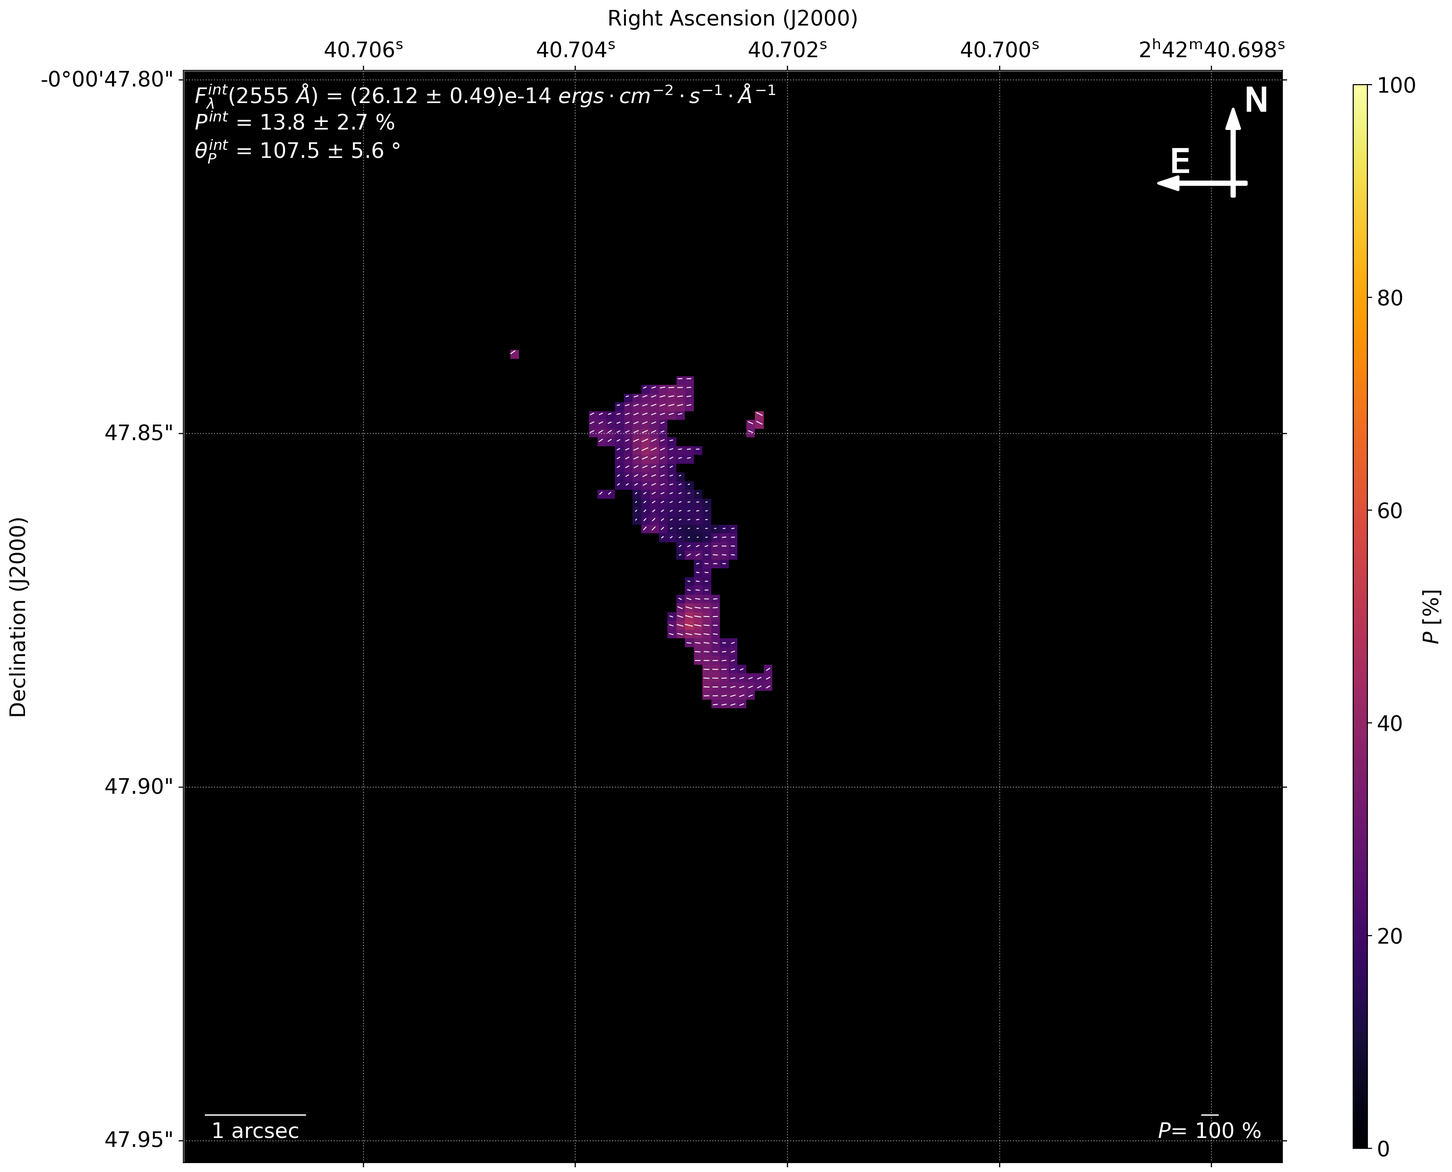
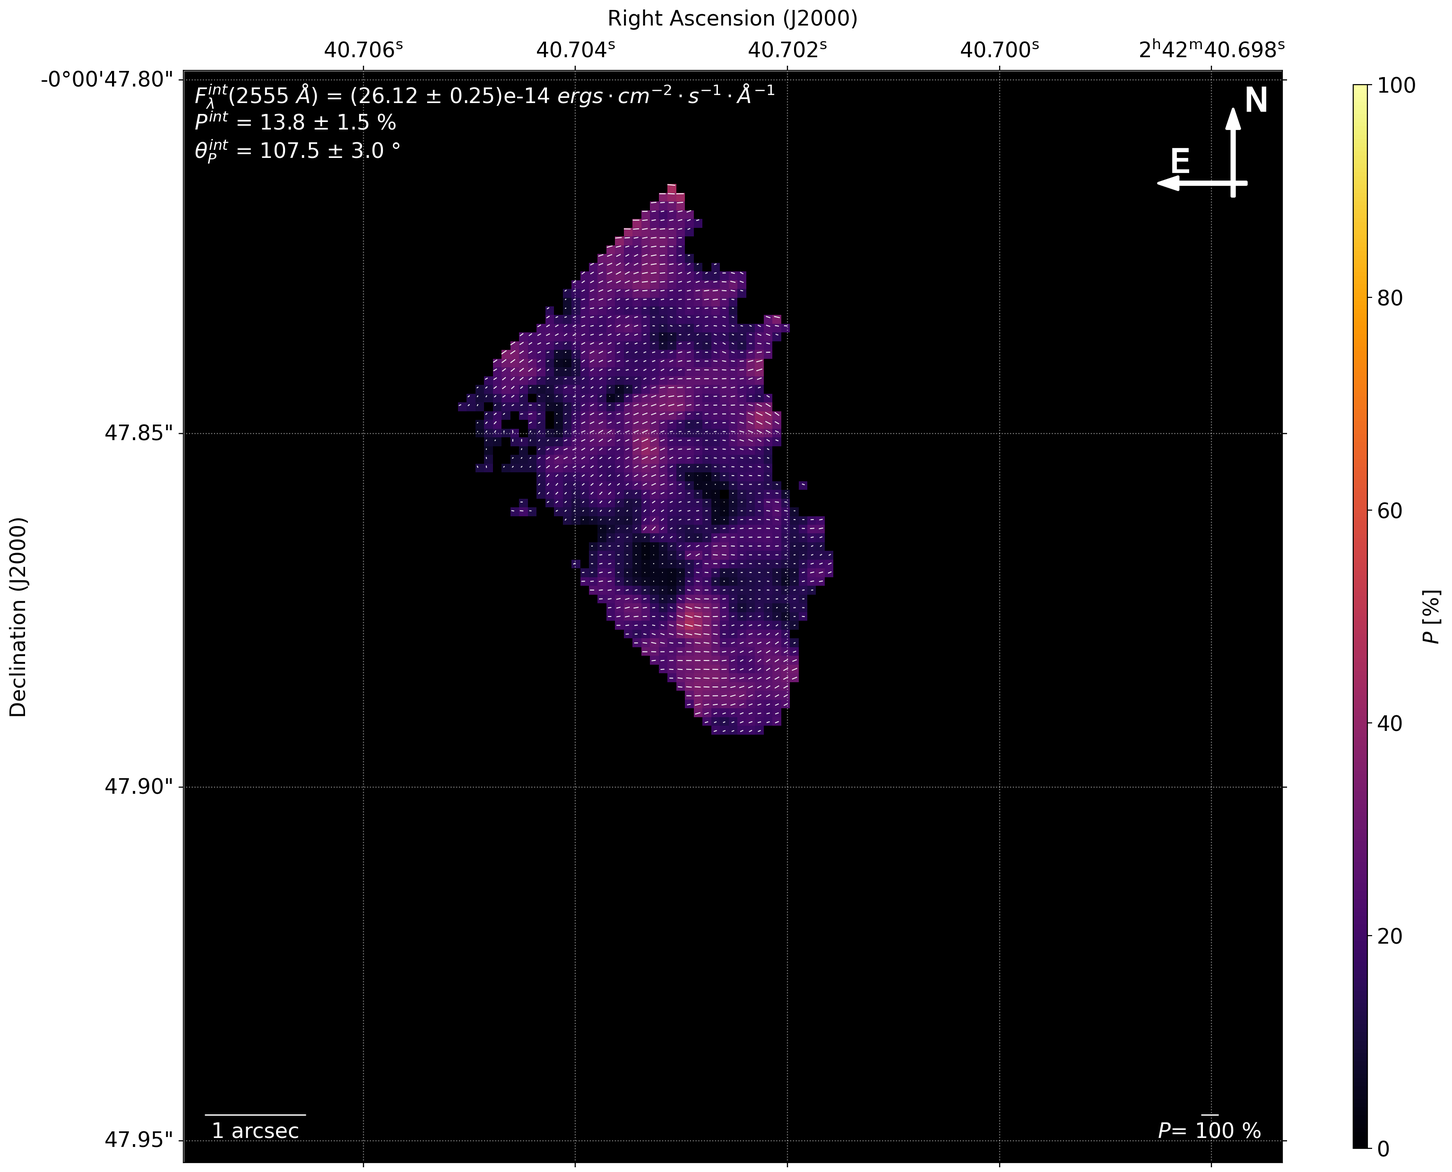
move axis error estimation to compute_Stokes

Changed region(s): [[0.3125, 0.1553, 0.5938, 0.6523], [0.3125, 0.0621, 0.4062, 0.0932], [0.25, 0.0932, 0.2812, 0.1242]]

diff --git a/src/lib/reduction.py b/src/lib/reduction.py
@@ -1059,9 +1059,6 @@ def compute_Stokes(data_array, error_array, data_mask, headers,
         +45/-45deg linear polarization intensity
     Stokes_cov : numpy.ndarray
         Covariance matrix of the Stokes parameters I, Q, U.
-    pol_flux : numpy.ndarray
-        Array containing the transmittance corrected fluxes from the multiple
-        polarizer plates
     """
     # Check that all images are from the same instrument
     instr = headers[0]['instrume']
@@ -1115,7 +1112,7 @@ def compute_Stokes(data_array, error_array, data_mask, headers,
         norm = pol_eff[1]*pol_eff[2]*np.sin(-2.*theta[1]+2.*theta[2]) \
                 + pol_eff[2]*pol_eff[0]*np.sin(-2.*theta[2]+2.*theta[0]) \
                 + pol_eff[0]*pol_eff[1]*np.sin(-2.*theta[0]+2.*theta[1])
-        globals()['a_stokes'] = np.zeros((3,3))
+        a_stokes = np.zeros((3,3))
         for i in range(3):
             a_stokes[0,i] = pol_eff[(i+1)%3]*pol_eff[(i+2)%3]*np.sin(-2.*theta[(i+1)%3]+2.*theta[(i+2)%3])/norm
             a_stokes[1,i] = (-pol_eff[(i+1)%3]*np.sin(2.*theta[(i+1)%3]) + pol_eff[(i+2)%3]*np.sin(2.*theta[(i+2)%3]))/norm
@@ -1138,12 +1135,27 @@ def compute_Stokes(data_array, error_array, data_mask, headers,
 
         #Stokes covariance matrix
         Stokes_cov = np.zeros((3,3,I_stokes.shape[0],I_stokes.shape[1]))
-        Stokes_cov[0,0] = (4./9.)*(pol_cov[0,0]+pol_cov[1,1]+pol_cov[2,2]) + (8./9.)*(pol_cov[0,1]+pol_cov[0,2]+pol_cov[1,2])
-        Stokes_cov[1,1] = (4./3.)*(pol_cov[1,1]+pol_cov[2,2]) - (8./3.)*pol_cov[1,2]
-        Stokes_cov[2,2] = (4./9.)*(4.*pol_cov[0,0]+pol_cov[1,1]+pol_cov[2,2]) - (8./3.)*(2.*pol_cov[0,1]+2.*pol_cov[0,2]-pol_cov[1,2])
-        Stokes_cov[0,1] = Stokes_cov[1,0] = (4./(3.*np.sqrt(3.)))*(pol_cov[1,1]-pol_cov[2,2]+pol_cov[0,1]-pol_cov[0,2])
-        Stokes_cov[0,2] = Stokes_cov[2,0] = (4./9.)*(2.*pol_cov[0,0]-pol_cov[1,1]-pol_cov[2,2]+pol_cov[0,1]+pol_cov[0,2]-2.*pol_cov[1,2])
-        Stokes_cov[1,2] = Stokes_cov[2,1] = (4./(3.*np.sqrt(3.)))*(-pol_cov[1,1]+pol_cov[2,2]+2.*pol_cov[0,1]-2.*pol_cov[0,2])
+        Stokes_cov[0,0] = a_stokes[0,0]**2*pol_cov[0,0]+a_stokes[0,1]**2*pol_cov[1,1]+a_stokes[0,2]**2*pol_cov[2,2] + 2*(a_stokes[0,0]*a_stokes[0,1]*pol_cov[0,1]+a_stokes[0,0]*a_stokes[0,2]*pol_cov[0,2]+a_stokes[0,1]*a_stokes[0,2]*pol_cov[1,2])
+        Stokes_cov[1,1] = a_stokes[1,0]**2*pol_cov[0,0]+a_stokes[1,1]**2*pol_cov[1,1]+a_stokes[1,2]**2*pol_cov[2,2] + 2*(a_stokes[1,0]*a_stokes[1,1]*pol_cov[0,1]+a_stokes[1,0]*a_stokes[1,2]*pol_cov[0,2]+a_stokes[1,1]*a_stokes[1,2]*pol_cov[1,2])
+        Stokes_cov[2,2] = a_stokes[2,0]**2*pol_cov[0,0]+a_stokes[2,1]**2*pol_cov[1,1]+a_stokes[2,2]**2*pol_cov[2,2] + 2*(a_stokes[2,0]*a_stokes[2,1]*pol_cov[0,1]+a_stokes[2,0]*a_stokes[2,2]*pol_cov[0,2]+a_stokes[2,1]*a_stokes[2,2]*pol_cov[1,2])
+        Stokes_cov[0,1] = Stokes_cov[1,0] = a_stokes[0,0]*a_stokes[1,0]*pol_cov[0,0]+a_stokes[0,1]*a_stokes[1,1]*pol_cov[1,1]+a_stokes[0,2]*a_stokes[1,2]*pol_cov[2,2]+(a_stokes[0,0]*a_stokes[1,1]+a_stokes[1,0]*a_stokes[0,1])*pol_cov[0,1]+(a_stokes[0,0]*a_stokes[1,2]+a_stokes[1,0]*a_stokes[0,2])*pol_cov[0,2]+(a_stokes[0,1]*a_stokes[1,2]+a_stokes[1,1]*a_stokes[0,2])*pol_cov[1,2]
+        Stokes_cov[0,2] = Stokes_cov[2,0] = a_stokes[0,0]*a_stokes[2,0]*pol_cov[0,0]+a_stokes[0,1]*a_stokes[2,1]*pol_cov[1,1]+a_stokes[0,2]*a_stokes[2,2]*pol_cov[2,2]+(a_stokes[0,0]*a_stokes[2,1]+a_stokes[2,0]*a_stokes[0,1])*pol_cov[0,1]+(a_stokes[0,0]*a_stokes[2,2]+a_stokes[2,0]*a_stokes[0,2])*pol_cov[0,2]+(a_stokes[0,1]*a_stokes[2,2]+a_stokes[2,1]*a_stokes[0,2])*pol_cov[1,2]
+        Stokes_cov[1,2] = Stokes_cov[2,1] = a_stokes[1,0]*a_stokes[2,0]*pol_cov[0,0]+a_stokes[1,1]*a_stokes[2,1]*pol_cov[1,1]+a_stokes[1,2]*a_stokes[2,2]*pol_cov[2,2]+(a_stokes[1,0]*a_stokes[2,1]+a_stokes[2,0]*a_stokes[1,1])*pol_cov[0,1]+(a_stokes[1,0]*a_stokes[2,2]+a_stokes[2,0]*a_stokes[1,2])*pol_cov[0,2]+(a_stokes[1,1]*a_stokes[2,2]+a_stokes[2,1]*a_stokes[1,2])*pol_cov[1,2]
+
+        C1 = 2.*pol_eff[0]*pol_eff[1]*pol_eff[2]/norm
+        dI_dtheta1 = C1*(np.cos(-2.*theta[2]+2.*theta[0])/pol_eff[1]*(pol_flux[1]-I_stokes) - np.cos(-2.*theta[0]+2.*theta[1])/pol_eff[2]*(pol_flux[2]-I_stokes))
+        dI_dtheta2 = C1*(np.cos(-2.*theta[0]+2.*theta[1])/pol_eff[2]*(pol_flux[2]-I_stokes) - np.cos(-2.*theta[1]+2.*theta[2])/pol_eff[0]*(pol_flux[0]-I_stokes))
+        dI_dtheta3 = C1*(np.cos(-2.*theta[1]+2.*theta[2])/pol_eff[0]*(pol_flux[0]-I_stokes) - np.cos(-2.*theta[2]+2.*theta[0])/pol_eff[1]*(pol_flux[1]-I_stokes))
+        dQ_dtheta1 = C1*((np.cos(2.*theta[0])*pol_flux[1]-np.cos(2.*theta[0])*pol_flux[2])/(pol_eff[1]*pol_eff[2]) - (np.cos(-2.*theta[2]+2.*theta[0])/pol_eff[1]-np.cos(-2.*theta[0]+2.*theta[1])/pol_eff[2])*Q_stokes)
+        dQ_dtheta2 = C1*((np.cos(2.*theta[1])*pol_flux[2]-np.cos(2.*theta[1])*pol_flux[0])/(pol_eff[0]*pol_eff[2]) - (np.cos(-2.*theta[0]+2.*theta[1])/pol_eff[2]-np.cos(-2.*theta[1]+2.*theta[2])/pol_eff[0])*Q_stokes)
+        dQ_dtheta3 = C1*((np.cos(2.*theta[2])*pol_flux[0]-np.cos(2.*theta[2])*pol_flux[1])/(pol_eff[0]*pol_eff[1]) - (np.cos(-2.*theta[1]+2.*theta[2])/pol_eff[0]-np.cos(-2.*theta[2]+2.*theta[0])/pol_eff[1])*Q_stokes)
+        dU_dtheta1 = C1*((np.sin(2.*theta[0])*pol_flux[1]-np.sin(2.*theta[1])*pol_flux[2])/(pol_eff[1]*pol_eff[2]) - (np.cos(-2.*theta[2]+2.*theta[0])/pol_eff[1]-np.cos(-2.*theta[0]+2.*theta[1])/pol_eff[2])*U_stokes)
+        dU_dtheta2 = C1*((np.sin(2.*theta[1])*pol_flux[2]-np.sin(2.*theta[1])*pol_flux[0])/(pol_eff[0]*pol_eff[2]) - (np.cos(-2.*theta[0]+2.*theta[1])/pol_eff[2]-np.cos(-2.*theta[1]+2.*theta[2])/pol_eff[0])*U_stokes)
+        dU_dtheta3 = C1*((np.sin(2.*theta[2])*pol_flux[0]-np.sin(2.*theta[2])*pol_flux[1])/(pol_eff[0]*pol_eff[1]) - (np.cos(-2.*theta[1]+2.*theta[2])/pol_eff[0]-np.cos(-2.*theta[2]+2.*theta[0])/pol_eff[1])*U_stokes)
+
+        #Stokes_cov[0,0] += (dI_dtheta1 + dI_dtheta2 + dI_dtheta3)**2*3.*np.pi/180.
+        #Stokes_cov[1,1] += (dQ_dtheta1 + dQ_dtheta2 + dQ_dtheta3)**2*3.*np.pi/180.
+        #Stokes_cov[2,2] += (dU_dtheta1 + dU_dtheta2 + dU_dtheta3)**2*3.*np.pi/180.
 
         if not(FWHM is None) and (smoothing.lower() in ['gaussian_after','gauss_after']):
             Stokes_array = np.array([I_stokes, Q_stokes, U_stokes])
@@ -1156,10 +1168,10 @@ def compute_Stokes(data_array, error_array, data_mask, headers,
             I_stokes, Q_stokes, U_stokes = Stokes_array
             Stokes_cov[0,0], Stokes_cov[1,1], Stokes_cov[2,2] = Stokes_error**2
 
-    return I_stokes, Q_stokes, U_stokes, Stokes_cov, pol_flux
+    return I_stokes, Q_stokes, U_stokes, Stokes_cov
 
 
-def compute_pol(I_stokes, Q_stokes, U_stokes, Stokes_cov, pol_flux, headers):
+def compute_pol(I_stokes, Q_stokes, U_stokes, Stokes_cov, headers):
     """
     Compute the polarization degree (in %) and angle (in deg) and their
     respective errors from given Stokes parameters.
@@ -1176,9 +1188,6 @@ def compute_pol(I_stokes, Q_stokes, U_stokes, Stokes_cov, pol_flux, headers):
         +45/-45deg linear polarization intensity
     Stokes_cov : numpy.ndarray
         Covariance matrix of the Stokes parameters I, Q, U.
-    pol_flux : numpy.ndarray
-        Array containing the transmittance corrected fluxes from the multiple
-        polarizer plates
     headers : header list
         List of headers corresponding to the images in data_array.
     ----------
@@ -1205,39 +1214,21 @@ def compute_pol(I_stokes, Q_stokes, U_stokes, Stokes_cov, pol_flux, headers):
     """
     #Polarization degree and angle computation
     I_pol = np.sqrt(Q_stokes**2 + U_stokes**2)
-    P = I_pol/I_stokes*100.
+    P = I_pol/I_stokes
     P[I_stokes <= 0.] = 0.
     PA = (90./np.pi)*np.arctan2(U_stokes,Q_stokes)
 
-    if (P>100.).any():
-        print("WARNING : found pixels for which P > 100%", P[P>100.].size)
+    if (P>1).any():
+        print("WARNING : found pixels for which P > 1", P[P>1.].size)
 
     #Associated errors
-    s_P = (100./I_stokes)*np.sqrt((Q_stokes**2*Stokes_cov[1,1] + U_stokes**2*Stokes_cov[2,2] + 2.*Q_stokes*U_stokes*Stokes_cov[1,2])/(Q_stokes**2 + U_stokes**2) + ((Q_stokes/I_stokes)**2 + (U_stokes/I_stokes)**2)*Stokes_cov[0,0] - 2.*(Q_stokes/I_stokes)*Stokes_cov[0,1] - 2.*(U_stokes/I_stokes)*Stokes_cov[0,2])
+    s_P = (1/I_stokes)*np.sqrt((Q_stokes**2*Stokes_cov[1,1] + U_stokes**2*Stokes_cov[2,2] + 2.*Q_stokes*U_stokes*Stokes_cov[1,2])/(Q_stokes**2 + U_stokes**2) + ((Q_stokes/I_stokes)**2 + (U_stokes/I_stokes)**2)*Stokes_cov[0,0] - 2.*(Q_stokes/I_stokes)*Stokes_cov[0,1] - 2.*(U_stokes/I_stokes)*Stokes_cov[0,2])
     s_PA = (90./(np.pi*(Q_stokes**2 + U_stokes**2)))*np.sqrt(U_stokes**2*Stokes_cov[1,1] + Q_stokes**2*Stokes_cov[2,2] - 2.*Q_stokes*U_stokes*Stokes_cov[1,2])
-    #Error propagated from uncertainties in the direction of polarizers' axis
-    #uncertainty estimated to 3° (see Nota et al 1996)
-    k1, k2, k3 = pol_efficiency['pol0'], pol_efficiency['pol60'], pol_efficiency['pol120']
-    f1, f2, f3 = pol_flux
-    theta1, theta2, theta3 = np.pi, np.pi/3., 2.*np.pi/3.
-
-    norm = k2*k3*np.sin(-2.*theta2+2.*theta3) + k3*k1*np.sin(-2.*theta3+2.*theta1) + k1*k2*np.sin(-2.*theta1+2.*theta2)
-    C1 = 10000./(I_stokes**2*P)
-    C2 = P/I_stokes
-    dP_dtheta1 = 2.*(k1*k2*k3/norm) * (np.cos(-2.*theta3+2.*theta1)/k2 - np.cos(-2.*theta1+2.*theta2)/k3) * (((a_stokes[1,0]+a_stokes[2,0]-1.)*C1 + a_stokes[0,0]*C2)*f1 + ((a_stokes[0,1]) * (C2-C1))*f2 + ((a_stokes[0,2]) * (C2-C1))*f3)
-    dP_dtheta2 = 2.*(k1*k2*k3/norm) * (np.cos(-2.*theta1+2.*theta2)/k3 - np.cos(-2.*theta2+2.*theta3)/k1) * (((a_stokes[1,0]+a_stokes[2,0]-1./(1.-k3/k1*np.cos(-2.*theta2+2.*theta1)/np.cos(-2*theta1+2.*theta2)))*C1 + (a_stokes[0,0]-1./(1.-k1/k3*np.cos(-2.*theta1+2.*theta2)/np.cos(-2*theta2+2.*theta3)))*C2)*f1 + ((a_stokes[0,1]+np.cos(2.*theta2)/(a_stokes[1,2]*np.cos(2.*theta2)-a_stokes[1,1]*np.sin(2.*theta2))) * (C2-C1))*f2 + ((a_stokes[0,2]+np.sin(2.*theta2)/(a_stokes[1,2]*np.cos(2.*theta2)-a_stokes[1,1]*np.sin(2.*theta2))) * (C2-C1))*f3)
-    dP_dtheta3 = 2.*(k1*k2*k3/norm) * (np.cos(-2.*theta2+2.*theta3)/k1 - np.cos(-2.*theta3+2.*theta1)/k2) * (((a_stokes[1,0]+a_stokes[2,0]+1./(1.-k1/k2*np.cos(-2.*theta3+2.*theta1)/np.cos(-2*theta2+2.*theta3)))*C1 + (a_stokes[0,0]+1./(1.-k2/k1*np.cos(-2.*theta2+2.*theta3)/np.cos(-2*theta3+2.*theta1)))*C2)*f1 + ((a_stokes[0,1]+np.cos(2.*theta3)/(a_stokes[2,2]*np.cos(2.*theta3)-a_stokes[2,1]*np.sin(2.*theta3))) * (C2-C1))*f2 + ((a_stokes[0,2]+np.sin(2.*theta3)/(a_stokes[2,2]*np.cos(2.*theta3)-a_stokes[2,1]*np.sin(2.*theta3))) * (C2-C1))*f3)
-
-    s_P_ax = np.sqrt(dP_dtheta1**2+dP_dtheta2**2+dP_dtheta3**2)*3./360.
-    s_PA_ax = np.ones(s_PA.shape)/np.sqrt(2)*3./360.
-    #Sum quadratically
-    s_P = np.sqrt(s_P**2 + s_P_ax**2)
-    s_PA = np.sqrt(s_PA**2 + s_PA_ax**2)
 
     debiased_P = np.sqrt(P**2 - s_P**2)
 
-    if (debiased_P>100.).any():
-        print("WARNING : found pixels for which debiased_P > 100%", debiased_P[debiased_P>100.].size)
+    if (debiased_P>1.).any():
+        print("WARNING : found pixels for which debiased_P > 100%", debiased_P[debiased_P>1.].size)
 
     #Compute the total exposure time so that
     #I_stokes*exp_tot = N_tot the total number of events
@@ -1262,7 +1253,7 @@ def compute_pol(I_stokes, Q_stokes, U_stokes, Stokes_cov, pol_flux, headers):
     return P, debiased_P, s_P, s_P_P, PA, s_PA, s_PA_P
 
 
-def rotate_Stokes(I_stokes, Q_stokes, U_stokes, Stokes_cov, pol_flux, data_mask, headers, ang, SNRi_cut=None):
+def rotate_Stokes(I_stokes, Q_stokes, U_stokes, Stokes_cov, data_mask, headers, ang, SNRi_cut=None):
     """
     Use scipy.ndimage.rotate to rotate I_stokes to an angle, and a rotation
     matrix to rotate Q, U of a given angle in degrees and update header
@@ -1280,9 +1271,6 @@ def rotate_Stokes(I_stokes, Q_stokes, U_stokes, Stokes_cov, pol_flux, data_mask,
         +45/-45deg linear polarization intensity
     Stokes_cov : numpy.ndarray
         Covariance matrix of the Stokes parameters I, Q, U.
-    pol_flux : numpy.ndarray
-        Array containing the transmittance corrected fluxes from the multiple
-        polarizer plates
     headers : header list
         List of headers corresponding to the reduced images.
     ang : float
@@ -1305,8 +1293,6 @@ def rotate_Stokes(I_stokes, Q_stokes, U_stokes, Stokes_cov, pol_flux, data_mask,
         accounting for +45/-45deg linear polarization intensity.
     new_Stokes_cov : numpy.ndarray
         Updated covariance matrix of the Stokes parameters I, Q, U.
-    new_pol_flux : numpy.ndarray
-        Rotated fluxes from the multiple polarizer plates
     new_headers : header list
         Updated list of headers corresponding to the reduced images accounting
         for the new orientation angle.
@@ -1329,7 +1315,6 @@ def rotate_Stokes(I_stokes, Q_stokes, U_stokes, Stokes_cov, pol_flux, data_mask,
     new_Q_stokes = np.cos(2*alpha)*Q_stokes + np.sin(2*alpha)*U_stokes
     new_U_stokes = -np.sin(2*alpha)*Q_stokes + np.cos(2*alpha)*U_stokes
 
-    new_pol_flux = copy.deepcopy(pol_flux)
 
     #Compute new covariance matrix on rotated parameters
     new_Stokes_cov = copy.deepcopy(Stokes_cov)
@@ -1345,7 +1330,6 @@ def rotate_Stokes(I_stokes, Q_stokes, U_stokes, Stokes_cov, pol_flux, data_mask,
     new_U_stokes = sc_rotate(new_U_stokes, ang, reshape=False, cval=0.)
     new_data_mask = sc_rotate(data_mask, ang, reshape=False, cval=True)
     for i in range(3):
-        new_pol_flux[i] = sc_rotate(new_pol_flux[i], ang, reshape=False, cval=0.)
         for j in range(3):
             new_Stokes_cov[i,j] = sc_rotate(new_Stokes_cov[i,j], ang,
                     reshape=False, cval=0.)
@@ -1381,7 +1365,6 @@ def rotate_Stokes(I_stokes, Q_stokes, U_stokes, Stokes_cov, pol_flux, data_mask,
     new_U_stokes[new_I_stokes == 0.] = 0.
     new_Q_stokes[np.isnan(new_Q_stokes)] = 0.
     new_U_stokes[np.isnan(new_U_stokes)] = 0.
-    new_pol_flux[np.isnan(new_pol_flux)] = 0.
     new_Stokes_cov[np.isnan(new_Stokes_cov)] = fmax
 
-    return new_I_stokes, new_Q_stokes, new_U_stokes, new_Stokes_cov, new_pol_flux, new_data_mask, new_headers
+    return new_I_stokes, new_Q_stokes, new_U_stokes, new_Stokes_cov, new_data_mask, new_headers

diff --git a/src/lib/plots.py b/src/lib/plots.py
@@ -262,20 +262,20 @@ def polarization_map(Stokes, rectangle=None, SNRp_cut=3., SNRi_cut=30., step_vec
     elif display.lower() in ['pol_flux']:
         # Display polarisation flux
         pf_mask = (stkI.data > 0.) * (pol.data > 0.)
-        vmin, vmax = 0., np.max(stkI.data[pf_mask]*convert_flux*pol.data[pf_mask]/100.)
-        im = ax.imshow(stkI.data*convert_flux*pol.data/100.,extent=[-stkI.data.shape[1]/2.,stkI.data.shape[1]/2.,-stkI.data.shape[0]/2.,stkI.data.shape[0]/2.], vmin=vmin, vmax=vmax, aspect='auto', cmap='inferno', alpha=1.)
+        vmin, vmax = 0., np.max(stkI.data[pf_mask]*convert_flux*pol.data[pf_mask])
+        im = ax.imshow(stkI.data*convert_flux*pol.data,extent=[-stkI.data.shape[1]/2.,stkI.data.shape[1]/2.,-stkI.data.shape[0]/2.,stkI.data.shape[0]/2.], vmin=vmin, vmax=vmax, aspect='auto', cmap='inferno', alpha=1.)
         cbar = plt.colorbar(im, cax=cbar_ax, label=r"$F_{\lambda} \cdot P$ [$ergs \cdot cm^{-2} \cdot s^{-1} \cdot \AA^{-1}$]")
         levelsI = np.linspace(SNRi_cut, np.max(SNRi[SNRi > 0.]), 10)
         cont = ax.contour(SNRi, extent=[-SNRi.shape[1]/2.,SNRi.shape[1]/2.,-SNRi.shape[0]/2.,SNRi.shape[0]/2.], levels=levelsI, colors='grey', linewidths=0.5)
     elif display.lower() in ['p','pol','pol_deg']:
         # Display polarization degree map
         vmin, vmax = 0., 100.
-        im = ax.imshow(pol.data,extent=[-pol.data.shape[1]/2.,pol.data.shape[1]/2.,-pol.data.shape[0]/2.,pol.data.shape[0]/2.], vmin=vmin, vmax=vmax, aspect='auto', cmap='inferno', alpha=1.)
+        im = ax.imshow(pol.data*100.,extent=[-pol.data.shape[1]/2.,pol.data.shape[1]/2.,-pol.data.shape[0]/2.,pol.data.shape[0]/2.], vmin=vmin, vmax=vmax, aspect='auto', cmap='inferno', alpha=1.)
         cbar = plt.colorbar(im, cax=cbar_ax, label=r"$P$ [%]")
     elif display.lower() in ['s_p','pol_err','pol_deg_err']:
         # Display polarization degree error map
-        vmin, vmax = 0., 5.
-        im = ax.imshow(pol_err.data,extent=[-pol_err.data.shape[1]/2.,pol_err.data.shape[1]/2.,-pol_err.data.shape[0]/2.,pol_err.data.shape[0]/2.], vmin=vmin, vmax=vmax, aspect='auto', cmap='inferno', alpha=1.)
+        vmin, vmax = 0., 10.
+        im = ax.imshow(pol_err.data*100.,extent=[-pol_err.data.shape[1]/2.,pol_err.data.shape[1]/2.,-pol_err.data.shape[0]/2.,pol_err.data.shape[0]/2.], vmin=vmin, vmax=vmax, aspect='auto', cmap='inferno', alpha=1.)
         cbar = plt.colorbar(im, cax=cbar_ax, label=r"$\sigma_P$ [%]")
     elif display.lower() in ['snr','snri']:
         # Display I_stokes signal-to-noise map
@@ -307,7 +307,7 @@ def polarization_map(Stokes, rectangle=None, SNRp_cut=3., SNRi_cut=30., step_vec
 
     X, Y = np.meshgrid(np.linspace(-stkI.data.shape[0]/2.,stkI.data.shape[0]/2.,stkI.data.shape[0]), np.linspace(-stkI.data.shape[1]/2.,stkI.data.shape[1]/2.,stkI.data.shape[1]))
     U, V = pol.data*np.cos(np.pi/2.+pang.data*np.pi/180.), pol.data*np.sin(np.pi/2.+pang.data*np.pi/180.)
-    Q = ax.quiver(X[::step_vec,::step_vec],Y[::step_vec,::step_vec],U[::step_vec,::step_vec],V[::step_vec,::step_vec],units='xy',angles='uv',scale=50.,scale_units='xy',pivot='mid',headwidth=0.,headlength=0.,headaxislength=0.,width=0.1,color='w')
+    Q = ax.quiver(X[::step_vec,::step_vec],Y[::step_vec,::step_vec],U[::step_vec,::step_vec],V[::step_vec,::step_vec],units='xy',angles='uv',scale=0.5,scale_units='xy',pivot='mid',headwidth=0.,headlength=0.,headaxislength=0.,width=0.1,color='w')
     pol_sc = AnchoredSizeBar(ax.transData, 2., r"$P$= 100 %", 4, pad=0.5, sep=5, borderpad=0.5, frameon=False, size_vertical=0.005, color='w', fontproperties=fontprops)
     ax.add_artist(pol_sc)
 
@@ -333,8 +333,8 @@ def polarization_map(Stokes, rectangle=None, SNRp_cut=3., SNRi_cut=30., step_vec
     IU_int_err = np.sqrt(n_pix)*np.sqrt(np.sum(stk_cov.data[0,2][mask]**2))
     QU_int_err = np.sqrt(n_pix)*np.sqrt(np.sum(stk_cov.data[1,2][mask]**2))
 
-    P_int = np.sqrt(Q_int**2+U_int**2)/I_int*100.
-    P_int_err = (100./I_int)*np.sqrt((Q_int**2*Q_int_err**2 + U_int**2*U_int_err**2 + 2.*Q_int*U_int*QU_int_err)/(Q_int**2 + U_int**2) + ((Q_int/I_int)**2 + (U_int/I_int)**2)*I_int_err**2 - 2.*(Q_int/I_int)*IQ_int_err - 2.*(U_int/I_int)*IU_int_err)
+    P_int = np.sqrt(Q_int**2+U_int**2)/I_int
+    P_int_err = (1./I_int)*np.sqrt((Q_int**2*Q_int_err**2 + U_int**2*U_int_err**2 + 2.*Q_int*U_int*QU_int_err)/(Q_int**2 + U_int**2) + ((Q_int/I_int)**2 + (U_int/I_int)**2)*I_int_err**2 - 2.*(Q_int/I_int)*IQ_int_err - 2.*(U_int/I_int)*IU_int_err)
 
     PA_int = princ_angle((90./np.pi)*np.arctan2(U_int,Q_int))
     PA_int_err = (90./(np.pi*(Q_int**2 + U_int**2)))*np.sqrt(U_int**2*Q_int_err**2 + Q_int**2*U_int_err**2 - 2.*Q_int*U_int*QU_int_err)
@@ -351,15 +351,15 @@ def polarization_map(Stokes, rectangle=None, SNRp_cut=3., SNRi_cut=30., step_vec
     IU_diluted_err = np.sqrt(n_pix)*np.sqrt(np.sum(stk_cov.data[0,2]**2))
     QU_diluted_err = np.sqrt(n_pix)*np.sqrt(np.sum(stk_cov.data[1,2]**2))
 
-    P_diluted = np.sqrt(Q_diluted**2+U_diluted**2)/I_diluted*100.
-    P_diluted_err = (100./I_diluted)*np.sqrt((Q_diluted**2*Q_diluted_err**2 + U_diluted**2*U_diluted_err**2 + 2.*Q_diluted*U_diluted*QU_diluted_err)/(Q_diluted**2 + U_diluted**2) + ((Q_diluted/I_diluted)**2 + (U_diluted/I_diluted)**2)*I_diluted_err**2 - 2.*(Q_diluted/I_diluted)*IQ_diluted_err - 2.*(U_diluted/I_diluted)*IU_diluted_err)
+    P_diluted = np.sqrt(Q_diluted**2+U_diluted**2)/I_diluted
+    P_diluted_err = (1./I_diluted)*np.sqrt((Q_diluted**2*Q_diluted_err**2 + U_diluted**2*U_diluted_err**2 + 2.*Q_diluted*U_diluted*QU_diluted_err)/(Q_diluted**2 + U_diluted**2) + ((Q_diluted/I_diluted)**2 + (U_diluted/I_diluted)**2)*I_diluted_err**2 - 2.*(Q_diluted/I_diluted)*IQ_diluted_err - 2.*(U_diluted/I_diluted)*IU_diluted_err)
     #P_diluted_err = np.sqrt(2/n_pix)*100.
 
     PA_diluted = princ_angle((90./np.pi)*np.arctan2(U_diluted,Q_diluted))
     PA_diluted_err = (90./(np.pi*(Q_diluted**2 + U_diluted**2)))*np.sqrt(U_diluted**2*Q_diluted_err**2 + Q_diluted**2*U_diluted_err**2 - 2.*Q_diluted*U_diluted*QU_diluted_err)
     #PA_diluted_err = P_diluted_err/(2.*P_diluted)*180./np.pi
 
-    ax.annotate(r"$F_{{\lambda}}^{{int}}$({0:.0f} $\AA$) = {1} $ergs \cdot cm^{{-2}} \cdot s^{{-1}} \cdot \AA^{{-1}}$".format(pivot_wav,sci_not(I_diluted*convert_flux,I_diluted_err*convert_flux,2))+"\n"+r"$P^{{int}}$ = {0:.1f} $\pm$ {1:.1f} %".format(P_diluted,P_diluted_err)+"\n"+r"$\theta_{{P}}^{{int}}$ = {0:.1f} $\pm$ {1:.1f} °".format(PA_diluted,PA_diluted_err), color='white', fontsize=16, xy=(0.01, 0.92), xycoords='axes fraction')
+    ax.annotate(r"$F_{{\lambda}}^{{int}}$({0:.0f} $\AA$) = {1} $ergs \cdot cm^{{-2}} \cdot s^{{-1}} \cdot \AA^{{-1}}$".format(pivot_wav,sci_not(I_diluted*convert_flux,I_diluted_err*convert_flux,2))+"\n"+r"$P^{{int}}$ = {0:.1f} $\pm$ {1:.1f} %".format(P_diluted*100.,P_diluted_err*100.)+"\n"+r"$\theta_{{P}}^{{int}}$ = {0:.1f} $\pm$ {1:.1f} °".format(PA_diluted,PA_diluted_err), color='white', fontsize=16, xy=(0.01, 0.92), xycoords='axes fraction')
 
     ax.coords.grid(True, color='white', ls='dotted', alpha=0.5)
     ax.coords[0].set_axislabel('Right Ascension (J2000)')

diff --git a/src/FOC_reduction.py b/src/FOC_reduction.py
@@ -110,8 +110,8 @@ def main():
     # Polarization map output
     figname = 'NGC1068_FOC'         #target/intrument name
     figtype = '_combine_FWHM020_rot'    #additionnal informations
-    SNRp_cut = 10    #P measurments with SNR>3
-    SNRi_cut = 130   #I measurments with SNR>30, which implies an uncertainty in P of 4.7%.
+    SNRp_cut = 20.    #P measurments with SNR>3
+    SNRi_cut = 200   #I measurments with SNR>30, which implies an uncertainty in P of 4.7%.
     step_vec = 1    #plot all vectors in the array. if step_vec = 2, then every other vector will be plotted
 
     ##### Pipeline start
@@ -172,7 +172,7 @@ def main():
     # FWHM of FOC have been estimated at about 0.03" across 1500-5000 Angstrom band, which is about 2 detector pixels wide
     # see Jedrzejewski, R.; Nota, A.; Hack, W. J., A Comparison Between FOC and WFPC2
     # Bibcode : 1995chst.conf...10J
-    I_stokes, Q_stokes, U_stokes, Stokes_cov, pol_flux = proj_red.compute_Stokes(data_array, error_array, data_mask, headers, FWHM=smoothing_FWHM, scale=smoothing_scale, smoothing=smoothing_function)
+    I_stokes, Q_stokes, U_stokes, Stokes_cov = proj_red.compute_Stokes(data_array, error_array, data_mask, headers, FWHM=smoothing_FWHM, scale=smoothing_scale, smoothing=smoothing_function)
 
     ## Step 3:
     # Rotate images to have North up
@@ -183,9 +183,9 @@ def main():
             [np.sin(-alpha), np.cos(-alpha)]])
         rectangle[0:2] = np.dot(mrot, np.asarray(rectangle[0:2]))+np.array(data_array.shape[1:])/2
         rectangle[4] = alpha
-        I_stokes, Q_stokes, U_stokes, Stokes_cov, pol_flux, data_mask, headers = proj_red.rotate_Stokes(I_stokes, Q_stokes, U_stokes, Stokes_cov, pol_flux, data_mask, headers, -ref_header['orientat'], SNRi_cut=None)
+        I_stokes, Q_stokes, U_stokes, Stokes_cov, data_mask, headers = proj_red.rotate_Stokes(I_stokes, Q_stokes, U_stokes, Stokes_cov, data_mask, headers, -ref_header['orientat'], SNRi_cut=None)
     # Compute polarimetric parameters (polarization degree and angle).
-    P, debiased_P, s_P, s_P_P, PA, s_PA, s_PA_P = proj_red.compute_pol(I_stokes, Q_stokes, U_stokes, Stokes_cov, pol_flux, headers)
+    P, debiased_P, s_P, s_P_P, PA, s_PA, s_PA_P = proj_red.compute_pol(I_stokes, Q_stokes, U_stokes, Stokes_cov, headers)
 
     ## Step 4:
     # Save image to FITS.
